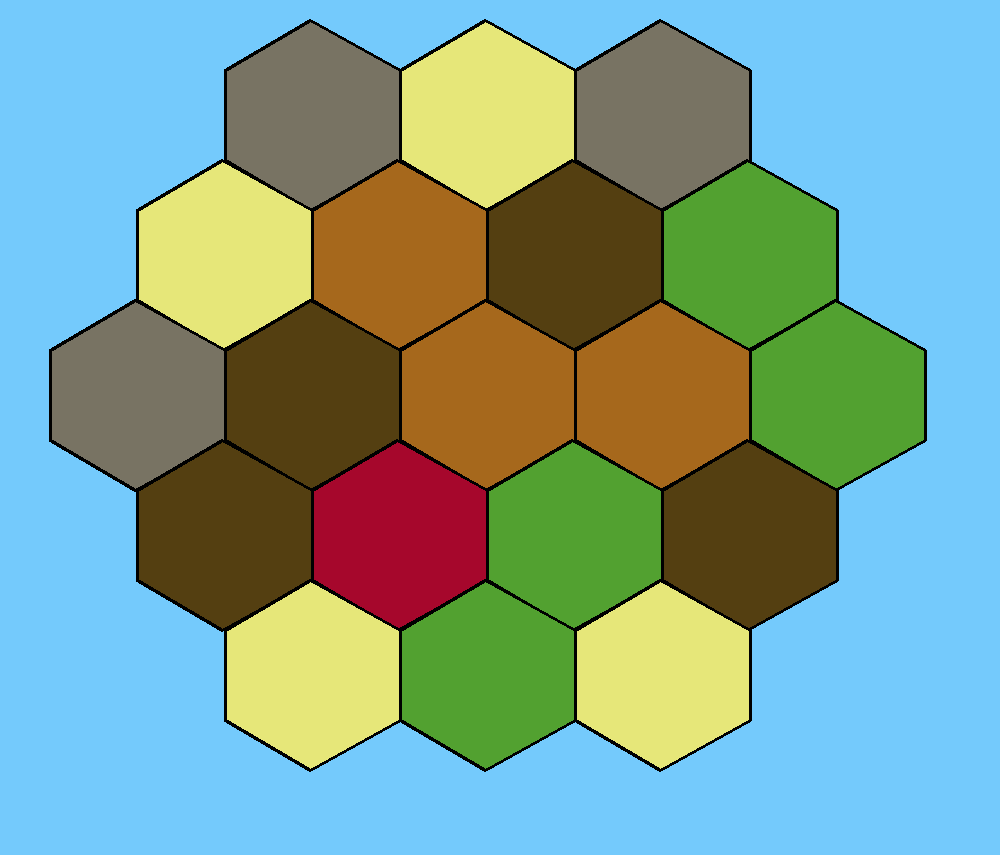
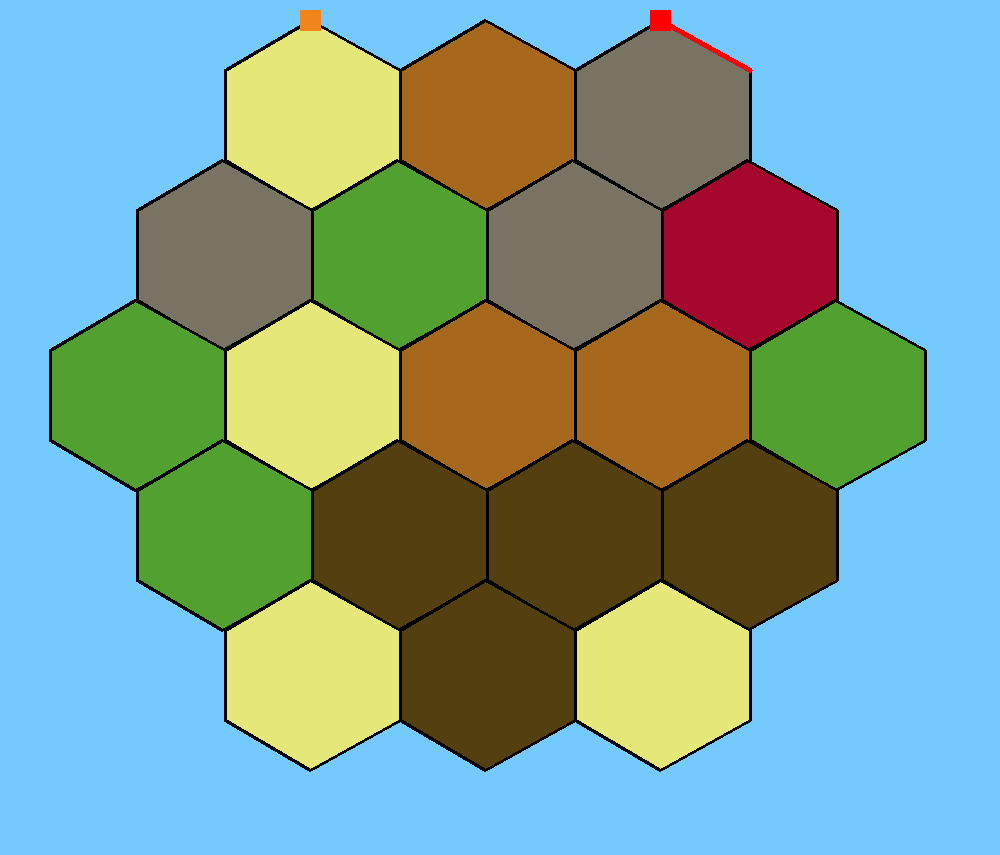
Implements draw road, settlement, and board in controller

diff --git a/draw.py b/draw.py
@@ -1,13 +1,10 @@
 import cv2
 import numpy as np
-import board
 import itertools
 
 photo  = "C:\\Users\\hunter\\Documents\\Python Scripts\\catan\\gui\\build\\background.png"
 
-image = cv2.imread(photo)
-
-window_name = 'Drawing Board'
+path = cv2.imread(photo)
 
 topLeft = [225,70]
 botLeft = [225, 160]
@@ -22,63 +19,139 @@ isClosed = True
 color = (255, 0, 0)
 thickness = 2
 
-tileColors = list(itertools.chain.from_iterable(board.board.tileSpots))
 
-print(tileColors)
-for tile in range(19):
-    if tile not in [3,7,12,16]:
+def drawBoard(board, image):
+    tileColors = list(itertools.chain.from_iterable(board.tileSpots))
+
+    for tile in range(19):
+        if tile not in [3,7,12,16]:
+            pts = np.array([topLeft, botLeft,
+                        bot, botRight,
+                            topRight, top],
+                        np.int32)
+            color = (0,255,0)
+        else:
+            for vertex in allVertex:
+                vertex[1] += 140
+                if tile == 3:
+                    vertex[0] -= 612.5
+                elif tile == 7:
+                    vertex[0] -= 787.5
+                elif tile == 12:
+                    vertex[0] -= 787.5
+                else:
+                    vertex[0] -= 612.5
+            color = (0,0,255)
         pts = np.array([topLeft, botLeft,
-                    bot, botRight,
-                        topRight, top],
-                    np.int32)
-        color = (0,255,0)
-    else:
+                        bot, botRight,
+                            topRight, top],
+                        np.int32)   
+        pts = pts.reshape((-1, 1, 2))
+
+        if tileColors[tile] == 'rockTile':
+            color = (99, 115, 120)
+        elif tileColors[tile] == 'brickTile':
+            color = (28, 104, 166)
+        elif tileColors[tile] == 'sheepTile':
+            color = (48, 161, 82)
+        elif tileColors[tile] == 'wheatTile':
+            color = (121, 231, 230)
+        elif tileColors[tile] == 'treeTile':
+            color = (17, 63, 84)
+        else:
+            color = (44, 7,166)
+
+        cv2.fillPoly(image, [pts], color)
+        image = cv2.polylines(image, [pts], isClosed, (0,0,0), thickness)
+        
+
         for vertex in allVertex:
-            vertex[1] += 140
-            if tile == 3:
-                vertex[0] -= 612.5
-            elif tile == 7:
-                vertex[0] -= 787.5
-            elif tile == 12:
-                vertex[0] -= 787.5
-            else:
-                vertex[0] -= 612.5
+                vertex[0] += 175
+    cv2.imwrite('test.png', image)
+
+def getSpot(spot):
+    spotAdj = [spot[1],spot[0]]
+
+    firstSpot = [310, 20]
+    if spot[0] == 1:
+        firstSpot[1] += 50
+        firstSpot[0] -= 85
+    if spot[0] == 2:
+        firstSpot[1] += 140
+        firstSpot[0] -= 85
+    if spot[0] == 3:
+        firstSpot[1] += 190
+        firstSpot[0] -= 175
+    if spot[0] == 4:
+        firstSpot[1] += 280
+        firstSpot[0] -= 175
+    if spot[0] == 5:
+        firstSpot[1] += 330
+        firstSpot[0] -= 260
+    if spot[0] == 6:
+        firstSpot[1] += 420
+        firstSpot[0] -= 260
+    if spot[0] == 7:
+        firstSpot[1] += 470
+        firstSpot[0] -= 175
+    if spot[0] == 8:
+        firstSpot[1] += 560
+        firstSpot[0] -= 175
+    if spot[0] == 9:
+        firstSpot[1] += 610
+        firstSpot[0] -= 85
+    if spot[0] == 10:
+        firstSpot[1] += 700
+        firstSpot[0] -= 85
+    if spot[0] == 11:
+        firstSpot[1] += 750
+        
+    firstSpot[0] += spotAdj[0] * 175
+
+    return firstSpot
+
+def determineColor(player):
+
+    color = player.color
+
+    if(color == "blue"):
+        color = (255,0,0)
+    elif(color == "red"):
         color = (0,0,255)
-    pts = np.array([topLeft, botLeft,
-                    bot, botRight,
-                        topRight, top],
-                    np.int32)   
-    pts = pts.reshape((-1, 1, 2))
+    elif(color == "orange"):
+        color = (27, 133, 241)
+    elif(color == "white"):
+        color = (255,255,255)
 
-    if tileColors[tile] == 'rockTile':
-        color = (120, 115, 99)
-    elif tileColors[tile] == 'brickTile':
-        color = (166, 104, 28)
-    elif tileColors[tile] == 'sheepTile':
-        color = (82, 161, 48)
-    elif tileColors[tile] == 'wheatTile':
-        color = (230, 231, 121)
-    elif tileColors[tile] == 'treeTile':
-        color = (84, 63, 17)
-    else:
-        color = (166, 7, 44)
+    return color
 
-    cv2.fillPoly(image, [pts], color)
-    image = cv2.polylines(image, [pts], isClosed, (0,0,0), thickness)
+def drawSettle(image, player, spot):
+
+    boardLocation = getSpot(spot)
+    settleColor = determineColor(player)
     
+    cv2.rectangle(image,(boardLocation[0] - 10,boardLocation[1]-10),(boardLocation[0] + 10,boardLocation[1] + 10),settleColor,-1)
+    cv2.imwrite('test.png', image)
 
-    for vertex in allVertex:
-            vertex[0] += 175
+
+
+def drawRoad(image, player, spot1, spot2):
     
+    boardLocation1 = getSpot(spot1)
+    boardLocation2 = getSpot(spot2)
+
+    roadColor = determineColor(player)
+
+    cv2.line(image, boardLocation1, boardLocation2, roadColor, 3) 
+    cv2.imwrite('test.png', image)
+
+
+
+
+
+
 
 
 # Displaying the image
-image = cv2.cvtColor(image, cv2.COLOR_BGR2RGB)
+img = cv2.cvtColor(path, cv2.COLOR_BGR2RGB)
 
-while(1):
-    cv2.imshow(window_name, image)
-    cv2.imwrite('test.png', image)
-    if cv2.waitKey(20) & 0xFF == 27:
-        break
-         
-cv2.destroyAllWindows()

diff --git a/controller.py b/controller.py
@@ -1,17 +1,21 @@
 import board, player as ply
+import draw
 
+board = board.Board()
 
-def setup():
-    """Handles all game setup."""
-    board = board.Board()
+Hunter = ply.Player("Hunter", "red")
+Chamin = ply.Player("Chamin", "blue")
+Kobi = ply.Player("Kobi", "orange")
+Emanuel = ply.Player("Emanuel", "white")
 
-    Hunter = ply.Player("Hunter")
-    Chamin = ply.Player("Chamin")
-    Kobi = ply.Player("Kobi")
-    Emanuel = ply.Player("Emanuel")
+draw.drawBoard(board, draw.img)
+
+draw.drawSettle(draw.img, Kobi, (0,0))
+draw.drawSettle(draw.img, Hunter, (0,2))
+draw.drawRoad(draw.img, Hunter, (0,2), (1,3))
 
     
-    ...
+ 
     # players are given a color, and their starting pieces
     # via some method, board is setup
     # players are randomly given a starting order (or with dice rolls)

diff --git a/board.py b/board.py
@@ -178,17 +178,14 @@ class Board:
 
     #postType one of ["Wheat", "Rock", "Brick", "3for1", "Wood"]
     def postAccess(self, spot, postType):
-        for key in board.portsSettleSpots:
+        for key in self.portsSettleSpots:
             if postType == key:
-                for value in board.portsSettleSpots[key]:
+                for value in self.portsSettleSpots[key]:
                     if value == spot:
                         return True
                 return False
 
     def moveRobber(self, newLocation):
         self.robberLocation = newLocation
-
-Hunter = ply.Player("Hunter")
-board = Board()
 
 

diff --git a/player.py b/player.py
@@ -1,6 +1,7 @@
 class Player:
-    def __init__(self, name):
+    def __init__(self, name, color):
         self.name = name
+        self.color = color
 
 
         self.victoryPoints          = 0
@@ -97,7 +98,7 @@ class Player:
         return False
 
 
-player1 = Player("Chamin")
+player1 = Player("Hunter", "blue")
 #player1.modCurrResource("Brick", 1)
 #player1.modSettQuantity(-1)
 #player1.modRoadQuantity(-1)
